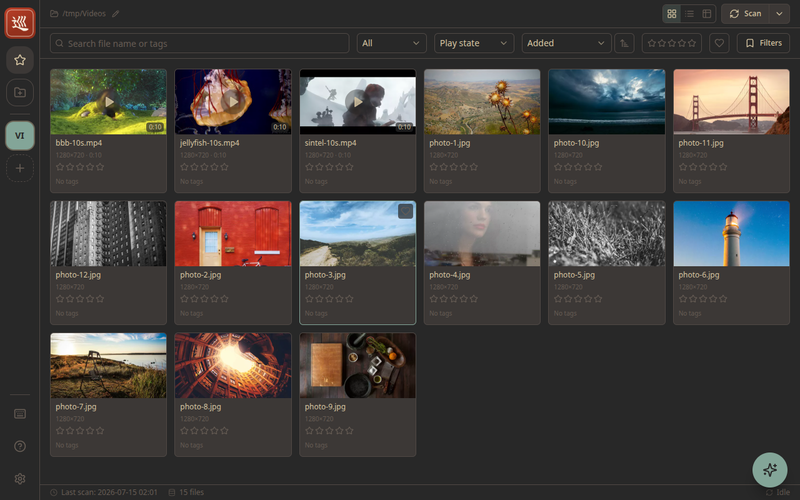
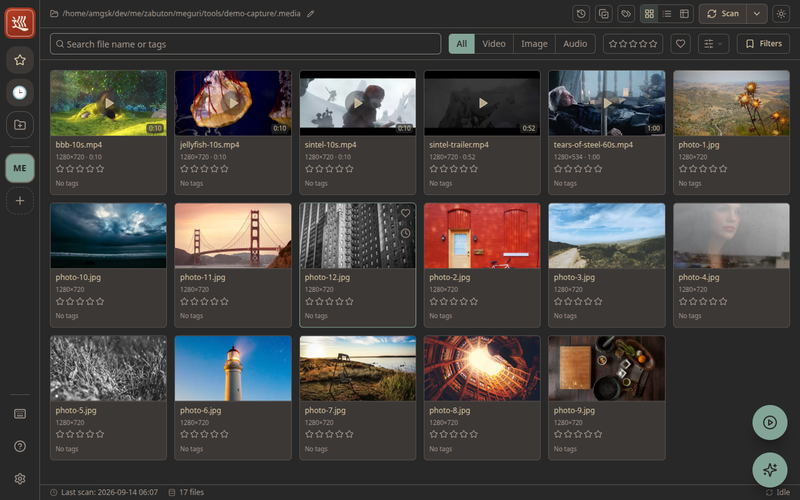
docs: document the side peek and retake the capture assets
- Describe the side peek in the README features and the user guide, with
  a new side-peek.png shot of the detail docked beside the library
- Retake the gallery and history screenshots for the current card look
- Add shoot-peek.mjs to demo-capture, and note that it needs a real
  display (the built-in player does not decode under Xvfb) with a way
  to keep the window size on a tiling compositor

diff --git a/docs/guide.html b/docs/guide.html
@@ -153,9 +153,17 @@
   </div>
 
   <h2 id="playing">Playing videos and viewing photos</h2>
-  <p>Click any thumbnail to open the <strong>detail view</strong>. It appears
+  <img class="shot" src="./assets/side-peek.png" alt="The detail view docked beside the library as a side peek, with a video playing">
+  <p>Click any thumbnail to open the <strong>detail view</strong>. It opens
   over the library, so closing it (or pressing <kbd>Esc</kbd>) drops you right
   back where you were.</p>
+  <p>Prefer to keep the library in reach? The button in the detail view's
+  header opens it as a <strong>side peek</strong> instead: a sheet docked to
+  the right edge, with the grid, search, and player bar still usable beside
+  it. Drag the sheet's left edge (or focus the grip and use the arrow keys)
+  to change its width. Meguri remembers whether you last used the modal or
+  the side peek, along with the size of each, and opens the next file the
+  same way; the peek's header has a button back to the modal.</p>
   <ul>
     <li><strong>Videos</strong> play immediately with full seeking. Hovering
     the seek bar shows frame previews so you can find a scene before jumping

diff --git a/tools/demo-capture/README.md b/tools/demo-capture/README.md
@@ -23,6 +23,7 @@ node tools/demo-capture/record-discover.mjs  # discover.gif — Discovery showca
 node tools/demo-capture/record-playlist.mjs  # playlist.gif — playlist player
 node tools/demo-capture/shoot-gallery.mjs    # theme-*.png / view-*.png
 node tools/demo-capture/shoot-history.mjs    # history.png — play-history view
+node tools/demo-capture/shoot-peek.mjs       # side-peek.png — side peek
 ```
 
 To use your own media instead of the sample library:
@@ -45,6 +46,18 @@ skews the capture resolution. Running under a virtual framebuffer avoids both:
 xvfb-run -a -s "-screen 0 1400x1000x24" \
   env WAYLAND_DISPLAY= XDG_SESSION_TYPE=x11 ELECTRON_OZONE_PLATFORM_HINT=x11 \
   node tools/demo-capture/record-demo.mjs
+```
+
+`shoot-peek.mjs` needs a real display: under Xvfb the built-in player fails
+to decode the sample videos, and the sheet would show the fallback notice
+instead of a playing frame. On a tiling compositor, float the window first so
+it keeps the requested 1280×800 — on Hyprland, for example:
+
+```bash
+hyprctl keyword windowrulev2 "float, class:^([Mm]eguri|[Ee]lectron)$"
+hyprctl keyword windowrulev2 "size 1280 800, class:^([Mm]eguri|[Ee]lectron)$"
+node tools/demo-capture/shoot-peek.mjs
+hyprctl reload   # drop the temporary rules
 ```
 
 ## Notes

diff --git a/README.md b/README.md
@@ -151,6 +151,9 @@ Or run from source — see [Setup and Launch](#setup-and-launch).
   ([see above](#-playlist--press-play-and-let-it-run))
 - 📋 **Copy to clipboard** — copy any image to the clipboard from the detail
   view, ready to paste elsewhere
+- 📑 **Side peek** — open any file's detail as a resizable sheet docked beside
+  the library instead of a modal, keeping the grid, search, and player bar in
+  use while you watch, tag, and rate; Meguri remembers which you prefer
 - 🎨 **Themes** — base16-based multi-theme switching (gruvbox / solarized /
   monokai / nord / dracula, etc.)
 - 🔎 **Content zoom** — Ctrl + wheel (and Ctrl +/-/0)
@@ -158,6 +161,10 @@ Or run from source — see [Setup and Launch](#setup-and-launch).
   communication ([see below](#privacy))
 
 ## Screenshots
+
+The detail view docked beside the library as a side peek:
+
+![Side peek](./docs/assets/side-peek.png)
 
 Grid, list, and table layouts for browsing:
 
